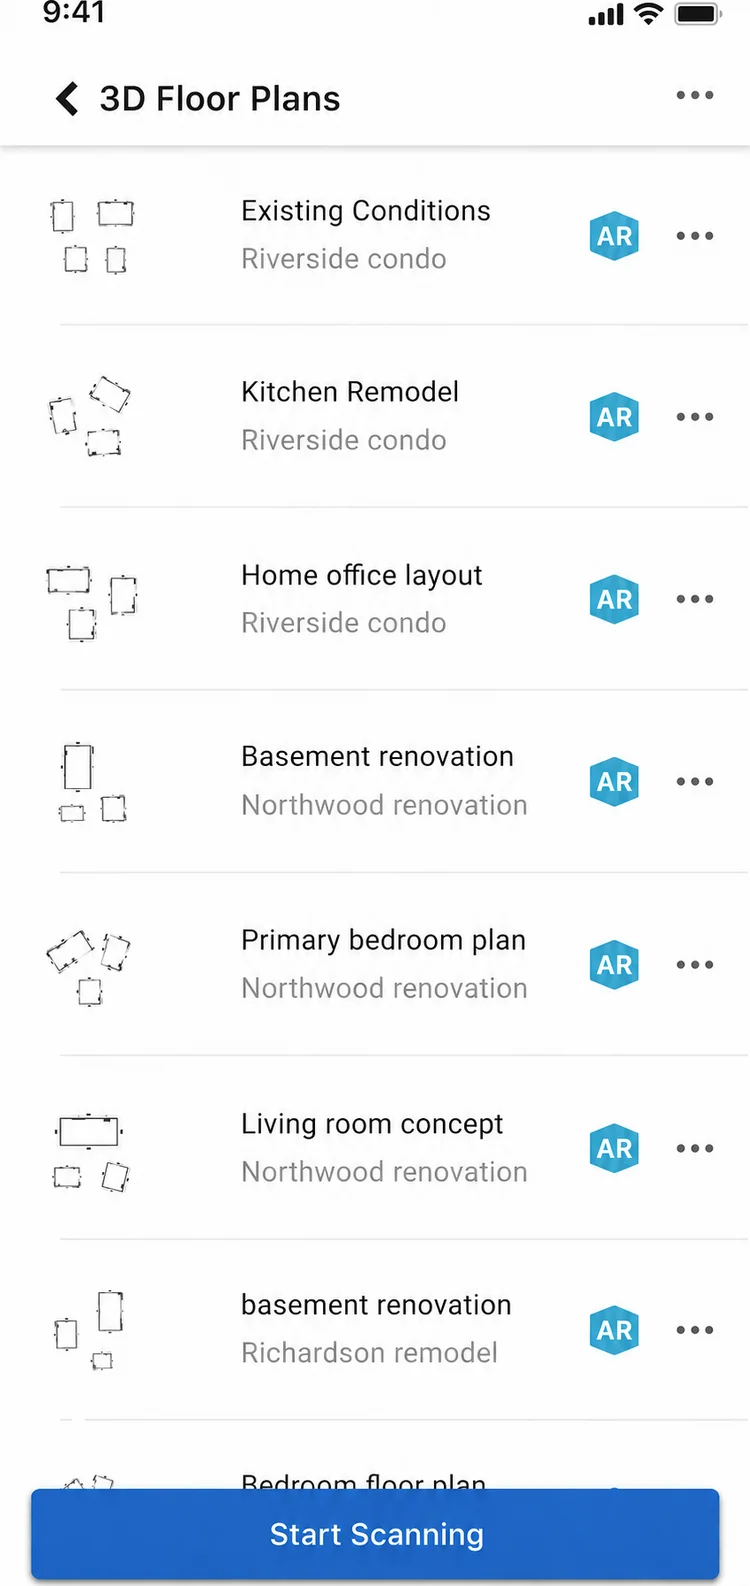
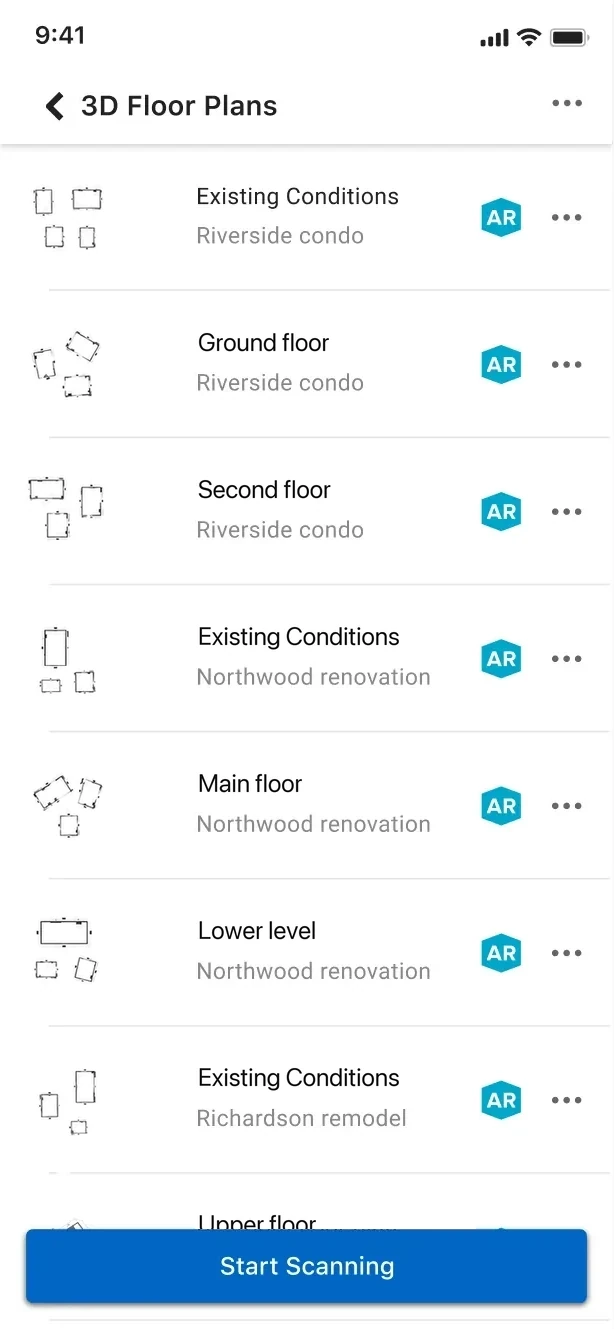
Rebuild the scattered-rooms shot on the real screen
The export was a screenshot of a screenshot, so it carried the capturing
device's proportions rather than the 375x812 screen used everywhere else
on the page. Rebuilt it on the screen from Problem 02: the same phone,
with the scattered-room thumbnails transplanted in and the row titles
changed from room names to floor names, since by this point a plan holds
a whole floor rather than one room.

Titles are set in SF Pro at 25px on the list's own 147px baseline grid,
matched to the untouched first row.

diff --git a/work/multi-room-mobile-scan.html b/work/multi-room-mobile-scan.html
@@ -702,7 +702,7 @@
   <!-- The result of the first version: rooms in one plan, but unconnected -->
   <section class="mrx-band mrx-scattered">
     <figure>
-      <img src="../media/multi-room/scattered-rooms.webp" alt="The floor plans list, where each plan's thumbnail is now several disconnected room shapes" width="750" height="1586" loading="lazy" decoding="async">
+      <img src="../media/multi-room/scattered-rooms.webp?v=2" alt="The floor plans list, where each plan is now a floor rather than a room, and its thumbnail is several disconnected room shapes" width="614" height="1329" loading="lazy" decoding="async">
     </figure>
     <div class="mrx-scattered__text">
       <p class="mrx-label">The result</p>
